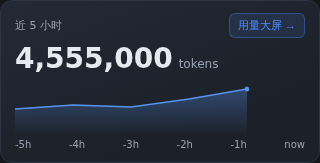
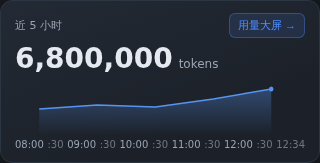
fix(app): 置顶 hero 大数字口径修正 — 7d 全局 → 5h 窗 hour 桶求和 (t_235f60c0 A 方案)
- 数据源: heroGlobalTokens(summary 全局行, 7d 窗) → windowTokens = heroBuckets.reduce,
  与「近 5 小时」标签、折线同源同窗口(7d 401M vs 5h 7.47M 错配实锤)
- 降级形态: hour 不可用(从未成功) → 大数字显式「—」暗色(禁假 0); hour ok 但窗内
  零桶 → 真实 0 正常色; hour 失败有旧 ok 快照 → H7 合并语义自动成立(无需新代码)
- 边界② 全局零数据 0 暗色契约保持(plan-a-v3 对稿); hero 渲染门禁 mcpSummary.ok 不动
- 注释收拢: App.tsx/AgentUsageHero docstring 数据面改为 5h 窗同源口径
- 测试面: 单测大数字改 5h 语义(8,600,000 现算) + 补 hour 不可用/5h 零数据用例;
  e2e ⑦ 重写为「—」形态 + 新增 ⑧ 真实零数据用例; 边界②/截图 seed hour 维改带
  daemon 真实 5h 窗(全天窗直充 hour 维是 fixture 失真, 30min 刻度全窗密排)
- 截图再生: verification/local-agent-hero 10 张重写 + 新增 degrade-hour 双图
  (visual-test 模式 A, 360×720 锁尺寸, 与 e2e 同源取证)

diff --git a/packages/app/src/components/AgentUsageHero.test.tsx b/packages/app/src/components/AgentUsageHero.test.tsx
@@ -1,6 +1,7 @@
 /**
- * AgentUsageHero 单测(t_56c66972 ②, 方案 A-rev3 置顶组件):
+ * AgentUsageHero 单测(t_56c66972 ②, 方案 A-rev3 置顶组件; t_235f60c0 大数字口径改 5h 窗 hour 桶求和):
  * 正常态 / 边界② 全局零数据 / 边界④ 不足窗口(断线绘制 + 首点标记) / hour 降级(数据积累中)
+ * / hour 不可用(大数字「—」暗色) / 5h 窗零数据(真实 0 正常色)
  * + buildHeroSeries 纯函数边界。
  */
 // @vitest-environment jsdom
@@ -20,6 +21,8 @@ const fullBuckets: HourBucket[] = [
   { hour: "2026-09-24T10:00", tokens: 1_800_000 },
   { hour: "2026-09-24T11:00", tokens: 2_000_000 },
 ];
+// 大数字与折线同源同窗口(t_235f60c0): = fullBuckets 求和(脚本现算, 禁心算) = 8,600,000
+const FULL_WINDOW_SUM = fullBuckets.reduce((a, b) => a + b.tokens, 0);
 
 let container: HTMLDivElement | null = null;
 let root: Root | null = null;
@@ -50,7 +53,7 @@ afterEach(() => {
 function hero(over: Partial<Parameters<typeof AgentUsageHero>[0]> = {}) {
   return (
     <AgentUsageHero
-      globalTotalTokens={258_613_940}
+      windowTokens={FULL_WINDOW_SUM}
       hourBuckets={fullBuckets}
       hourAvailable={true}
       windowSince={SINCE}
@@ -71,9 +74,10 @@ describe("AgentUsageHero 正常态(plan-a-v3 对稿)", () => {
     expect(btn.getAttribute("aria-label")).toBe("打开用量大屏");
   });
 
-  it("行1: 全局总 tokens 大数字(千分位全数字) + unit", () => {
+  it("行1: 5h 窗 hour 桶求和大数字(千分位全数字, 与折线同源同窗口) + unit", () => {
     const c = mount(hero());
-    expect(c.querySelector('[data-testid="hero-total-tokens"]')?.textContent).toBe("258,613,940");
+    // t_235f60c0: 大数字 = fullBuckets(6 桶)求和 = 8,600,000(FULL_WINDOW_SUM 现算), 非旧全局行口径
+    expect(c.querySelector('[data-testid="hero-total-tokens"]')?.textContent).toBe("8,600,000");
     expect(c.textContent).toContain("tokens");
   });
 
@@ -113,7 +117,7 @@ describe("AgentUsageHero 正常态(plan-a-v3 对稿)", () => {
 
 describe("AgentUsageHero 边界态", () => {
   it("边界② 全局零数据: 0(暗色) + 虚线基线 + 引导句, 不画折线", () => {
-    const c = mount(hero({ globalTotalTokens: 0, emptyPage: true, hourBuckets: [] }));
+    const c = mount(hero({ windowTokens: 0, emptyPage: true, hourBuckets: [] }));
     const num = c.querySelector('[data-testid="hero-total-tokens"]');
     expect(num?.textContent).toBe("0");
     expect(num?.classList.contains("is-empty")).toBe(true);
@@ -145,11 +149,32 @@ describe("AgentUsageHero 边界态", () => {
     );
   });
 
-  it("折线降级: hour 查询不可用 → 「数据积累中」, 大数字不受牵动(卡体的失败域边界)", () => {
-    const c = mount(hero({ hourAvailable: false, hourBuckets: [] }));
+  it("hour 不可用: 大数字显式「—」暗色(禁假 0) + 折线区「数据积累中」", () => {
+    // t_235f60c0 降级形态①: hour 从未成功 → windowTokens=null → 大数字「—」+ is-empty 暗色
+    const c = mount(hero({ windowTokens: null, hourAvailable: false, hourBuckets: [] }));
+    const num = c.querySelector('[data-testid="hero-total-tokens"]');
+    expect(num?.textContent).toBe("—");
+    expect(num?.classList.contains("is-empty")).toBe(true);
     expect(c.querySelector('[data-testid="hero-chart-degrade"]')?.textContent).toBe("数据积累中");
     expect(c.querySelector('[data-testid="hero-chart"]')).toBeNull();
-    expect(c.querySelector('[data-testid="hero-total-tokens"]')?.textContent).toBe("258,613,940");
+    expect((num as HTMLElement).title).toBe("5 小时窗数据不可用");
+  });
+
+  it("5h 窗真实零数据: hour ok 但桶空(非边界②) → 大数字真实 0(正常色, 非暗色) + 虚线基线", () => {
+    // t_235f60c0 降级形态③: hour 成功但窗内零桶 → 真实 0 正常色(与「—」/边界②暗色区分;
+    // emptyPage=false = 上游 Agent 区仍有数据形态, 仅 5h 窗内无上报)
+    const c = mount(hero({ windowTokens: 0, hourBuckets: [] }));
+    const num = c.querySelector('[data-testid="hero-total-tokens"]');
+    expect(num?.textContent).toBe("0");
+    expect(num?.classList.contains("is-empty")).toBe(false);
+    expect(c.querySelector('[data-testid="hero-baseline"]')).toBeTruthy();
+    expect(c.querySelector('[data-testid="hero-line"]')).toBeNull();
+  });
+
+  it("hour 不可用但 props 仍传数值(非法组合防御): 大数字仍显「—」(null 门控优先)", () => {
+    // 防御性: hourAvailable=false 时 App 层恒传 null; 组件不信任第二来源
+    const c = mount(hero({ windowTokens: null, hourAvailable: false, hourBuckets: fullBuckets }));
+    expect(c.querySelector('[data-testid="hero-total-tokens"]')?.textContent).toBe("—");
   });
 });
 

diff --git a/packages/app/src/components/AgentUsageHero.tsx b/packages/app/src/components/AgentUsageHero.tsx
@@ -4,14 +4,15 @@
  * 形态唯一依据 = docs/requests/2026-09-24-local-agent-redesign/plan-a-v3.html
  * 「正常态 + 四边界态」逐字对稿:
  *   行0: 「近 5 小时」标签(左) + 「用量大屏 →」钮(右) —— 大屏入口全局唯一(卡内已移除)
- *   行1: 全局总 tokens 大数字 (28px) + 单位
+ *   行1: 5h 窗 hour 桶求和大数字 (28px) + 单位
  *   52px 折线(手绘 SVG, 离线无 CDN 依赖, 色走 --chart-1) + 时间轴 -5h…now
  *
- * 数据面(两个独立失败域, 卡体明示):
- *  - 大数字 = 主 summary(单维 agent)的**全局行** total —— 「全部 agent 聚合」, 与卡片列表同源。
- *  - 折线   = usage_summary({group_by:["hour"], since: now-5h}) 的桶序列(row.group = 本地时区
- *             "YYYY-MM-DDTHH:00", 协议 §2.2 hour 维语义, v1.1 增补)。
- *    hour 查询失败 → **只**降级折线区(「数据积累中」), 大数字不受牵动(卡体明示的降级边界)。
+ * 数据面(t_235f60c0 A 方案收口): 大数字 = **5h 窗 hour 桶求和**, 与「近 5 小时」标签、
+ * 折线同源同窗口(旧「主 summary 全局行(7 天窗)」口径已废 —— 7d 全局 401M 与 5h 标签错配实锤)。
+ *  - 大数字 = usage_summary({group_by:["hour"], since: now-5h}) 桶 tokens 累加;
+ *    hour 查询不可用(从未成功) → 大数字显式「—」暗色(**禁假 0**); hour ok 但窗内零桶 → 真实 0。
+ *  - 折线   = 同一 hour 桶序列(row.group = 本地时区 "YYYY-MM-DDTHH:00", 协议 §2.2 hour 维
+ *             语义, v1.1 增补)。hour 查询失败 → 折线区「数据积累中」降级, 大数字跟随 hour 域显「—」。
  *
  * 四边界态(mock 边界区):
  *  ② 全局零数据   → 大数字 0(暗色) + 虚线基线 + 引导句
@@ -157,8 +158,10 @@ export function buildHeroSeries(
 }
 
 export interface AgentUsageHeroProps {
-  /** 全局行(全部 agent 聚合) tokens —— 主 summary total 的三分项之和 */
-  globalTotalTokens: number;
+  /** 5h 窗 hour 桶求和(t_235f60c0 A 方案) —— 与「近 5 小时」标签、折线同源同窗口;
+   *  null = hour 查询不可用(从未成功) → 大数字显式「—」暗色(禁假 0);
+   *  0 = hour ok 但 5h 窗内零桶 → 真实 0(正常色)。 */
+  windowTokens: number | null;
   /** hour 维桶序列(折线数据面) */
   hourBuckets: HourBucket[];
   /** hour 查询是否可用(false → 折线区「数据积累中」降级, 大数字不受影响) */
@@ -174,7 +177,7 @@ export interface AgentUsageHeroProps {
 }
 
 export function AgentUsageHero({
-  globalTotalTokens,
+  windowTokens,
   hourBuckets,
   hourAvailable,
   windowSince,
@@ -239,14 +242,19 @@ export function AgentUsageHero({
         </button>
       </div>
 
-      {/* 行1: 全局总 tokens 大数字 + 单位(边界② → 0 且暗色) */}
+      {/* 行1: 5h 窗 hour 桶求和大数字 + 单位(t_235f60c0: hour 不可用 → 显式「—」暗色, 禁假 0;
+          hour ok 但窗内零桶且非边界② → 真实 0 正常色; 边界②(全局零数据) → 0 暗色(plan-a-v3 对稿)) */}
       <div className="hero-num-row">
         <span
-          className={`hero-num${emptyPage ? " is-empty" : ""}`}
+          className={`hero-num${windowTokens === null || emptyPage ? " is-empty" : ""}`}
           data-testid="hero-total-tokens"
-          title={`${globalTotalTokens.toLocaleString("en-US")} tokens`}
+          title={
+            windowTokens === null
+              ? "5 小时窗数据不可用"
+              : `${windowTokens.toLocaleString("en-US")} tokens`
+          }
         >
-          {formatTokens(globalTotalTokens)}
+          {windowTokens === null ? "—" : formatTokens(windowTokens)}
         </span>
         <span className="hero-unit">tokens</span>
       </div>

diff --git a/packages/app/e2e/_local-agent-hero-shots.spec.ts b/packages/app/e2e/_local-agent-hero-shots.spec.ts
@@ -48,7 +48,7 @@ for (const t of THEMES) {
     await pwExpect(page.getByTestId("card-list")).toBeVisible();
     await page.getByTestId("main-tab-local-agent").click();
     await pwExpect(page.getByTestId("agent-usage-hero")).toBeVisible();
-    await pwExpect(page.getByTestId("hero-total-tokens")).toHaveText("4,555,000");
+    await pwExpect(page.getByTestId("hero-total-tokens")).toHaveText("6,800,000");
     await page.waitForTimeout(400);
     await page.screenshot({ path: `${SHOT}/${t.key}-full.png`, fullPage: false });
     await page.getByTestId("agent-usage-hero").screenshot({ path: `${SHOT}/${t.key}-hero.png` });
@@ -63,6 +63,27 @@ for (const t of THEMES) {
     console.log(`[shots] ${t.key} 一屏完整可见卡数 = ${visible}`);
   });
 }
+
+test("对稿截图 hour 降级(dark)", async ({ hostPage, page }) => {
+  void hostPage;
+  // t_235f60c0 验收截图②: hour 不可用 → 大数字「—」暗色 + 折线区「数据积累中」
+  await page.setViewportSize({ width: 360, height: 720 });
+  await page.getByTestId("consent-agree").click();
+  await seedAgentUsageMulti(page, {
+    agent: { ok: true, data: fakeSummary },
+    "agent,model": deriveMultiFromSingle(fakeSummary)["agent,model"],
+    day: deriveMultiFromSingle(fakeSummary)["day"],
+    hour: { ok: false, reason: "unreachable" },
+  });
+  await page.reload();
+  await pwExpect(page.getByTestId("card-list")).toBeVisible();
+  await page.getByTestId("main-tab-local-agent").click();
+  await pwExpect(page.getByTestId("hero-total-tokens")).toHaveText("—");
+  await pwExpect(page.getByTestId("hero-chart-degrade")).toBeVisible();
+  await page.waitForTimeout(400);
+  await page.getByTestId("agent-usage-hero").screenshot({ path: `${SHOT}/degrade-hour-hero.png` });
+  await page.screenshot({ path: `${SHOT}/degrade-hour-full.png`, fullPage: false });
+});
 
 test("对稿截图 边界态(dark)", async ({ hostPage, page }) => {
   void hostPage;
@@ -81,12 +102,16 @@ test("对稿截图 边界态(dark)", async ({ hostPage, page }) => {
     .screenshot({ path: `${SHOT}/boundary-stale-card.png` });
   await page.screenshot({ path: `${SHOT}/boundary-full-short-stale.png`, fullPage: false });
 
-  // ② 全局零数据
+  // ② 全局零数据(hour 维带 5h 真实窗 — daemon hour 查询回显形态, 见 spec ④ 注释)
+  const emptyHourShots = {
+    ...emptySummary,
+    window: { since: "2026-09-09T07:34:56+08:00", until: "2026-09-09T12:34:56+08:00" },
+  };
   await seedAgentUsageMulti(page, {
     agent: { ok: true, data: emptySummary },
     "agent,model": { ok: true, data: emptySummary },
     day: { ok: true, data: emptySummary },
-    hour: { ok: true, data: emptySummary },
+    hour: { ok: true, data: emptyHourShots },
   });
   await page.reload();
   await pwExpect(page.getByTestId("card-list")).toBeVisible();

diff --git a/packages/app/src/App.tsx b/packages/app/src/App.tsx
@@ -459,9 +459,10 @@ function AppShell() {
     if (mcpSummary.ok && mcpSummary.data.rows.length > 0) setDeleteReceipt(false);
   }, [mcpSummary]);
 
-  // t_56c66972 ② 置顶组件 props:
-  //  大数字 = 主 summary 全局行(total, 全部 agent 聚合 —— 与卡片列表同源同窗);
-  //  折线 = hour 维桶; 两个失败域独立(hour 挂了只降级折线区)。
+  // t_56c66972 ② 置顶组件 props(t_235f60c0 A 方案收口):
+  //  大数字 = 5h 窗 hour 桶求和(heroBuckets.reduce) —— 与「近 5 小时」标签、折线同源同窗口;
+  //         旧「主 summary 全局行(7d 窗)」口径已废(7d 全局 total ≈ 401M 与 5h 标签错配实锤)。
+  //  折线   = hour 维桶; hour 查挂了只降级折线区, 但大数字跟随 hour 域(不可用 → null → 显式「—」)。
   const heroBuckets: HourBucket[] = useMemo(
     () =>
       mcpHourSummary.ok
@@ -469,9 +470,16 @@ function AppShell() {
         : [],
     [mcpHourSummary],
   );
-  const heroGlobalTokens = mcpSummary.ok ? totalTokens(mcpSummary.data.total) : 0;
-  // 边界② 全局零数据: 零行 + 全局行 tokens = 0(全新装 / 全部删光)
-  const heroEmptyPage = mcpSummary.ok && mcpSummary.data.rows.length === 0 && heroGlobalTokens === 0;
+  // t_235f60c0: hour 不可用(从未成功) → null(大数字显式「—」暗色, 禁假 0);
+  // hour ok 但 5h 窗内零桶 → 真实 0(正常色)。hour 失败但有旧 ok 快照时 H7 合并语义
+  // (setMcpHourSummary 保留旧 ok)自动让本值沿用旧快照求和, 无需额外代码。
+  const heroWindowTokens = mcpHourSummary.ok
+    ? heroBuckets.reduce((a, b) => a + b.tokens, 0)
+    : null;
+  // 边界② 全局零数据(仍 summary 域为门禁基): 零行 + 5h 窗求和 = 0(全新装 / 全部删光);
+  // hour 域不可用时退化为纯行数判据(?? 0), 不因 hour 挂而误判非空页。
+  const heroEmptyPage =
+    mcpSummary.ok && mcpSummary.data.rows.length === 0 && (heroWindowTokens ?? 0) === 0;
   const heroWindow = mcpHourSummary.ok
     ? mcpHourSummary.data.window
     : {
@@ -725,7 +733,7 @@ function AppShell() {
                   AgentCardEmpty 显式失败态, 不渲染「假 0」置顶(不静默吞成 0 的既有纪律)。 */}
               {mcpSummary.ok && (
                 <AgentUsageHero
-                  globalTotalTokens={heroGlobalTokens}
+                  windowTokens={heroWindowTokens}
                   hourBuckets={heroBuckets}
                   hourAvailable={mcpHourSummary.ok}
                   windowSince={heroWindow.since}
